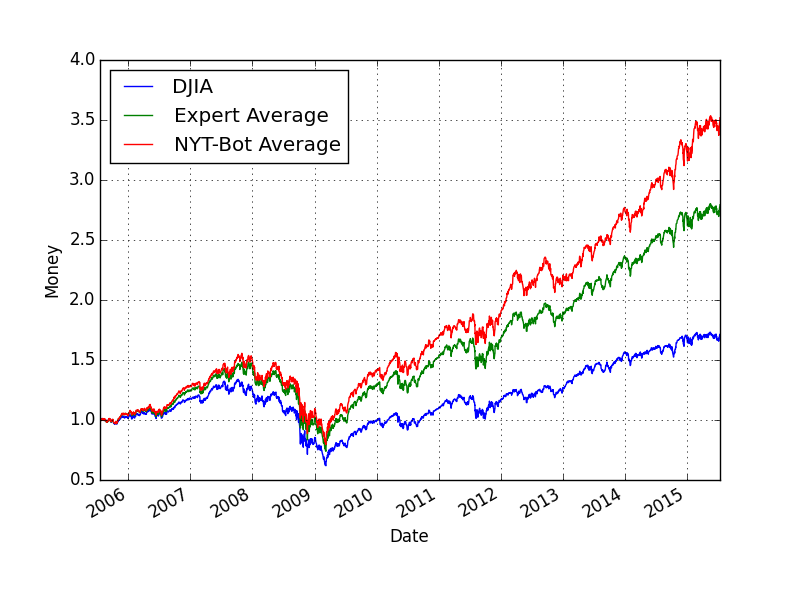
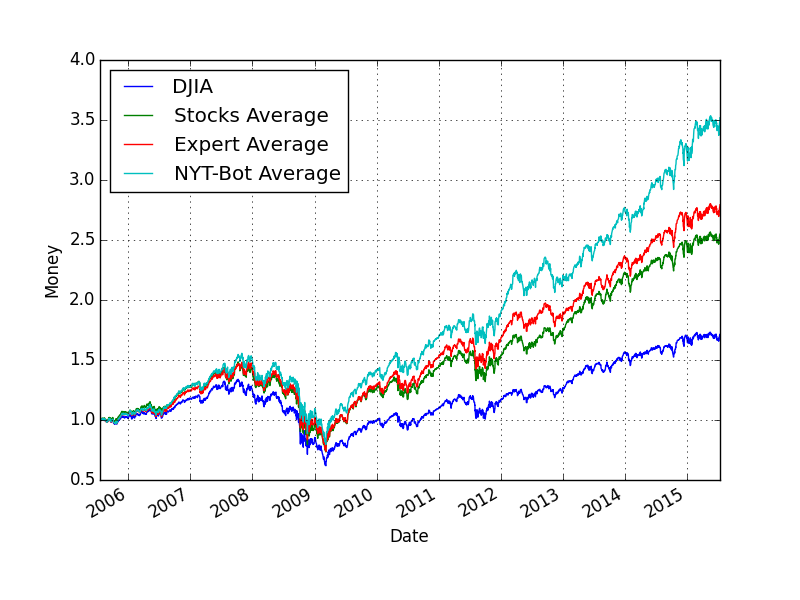
added stocks average to averages figure

diff --git a/NLPBot/NLPBot.py b/NLPBot/NLPBot.py
@@ -230,12 +230,15 @@ def summarizeModel(condensedData):
     keys = list(condensedData.keys())
     stock = keys[0]
     summaryToPlot = condensedData[stock].drop(['Expert', 'NYT-Bot', stock],axis=1)
+    summaryStocks = condensedData[stock].drop(['DJIA', 'Expert', 'NYT-Bot'],axis=1)
     summaryExpert = condensedData[stock].drop(['DJIA', 'NYT-Bot', stock],axis=1)
     summaryNLPBot = condensedData[stock].drop(['DJIA', 'Expert', stock],axis=1)
     for whichStock in xrange(1,len(keys)):
         stock = keys[whichStock]
+        summaryStocks = pd.merge(summaryStocks, condensedData[stock].drop(['DJIA', 'Expert', 'NYT-Bot'],axis=1), how='inner', on='Date')
         summaryExpert = pd.merge(summaryExpert, condensedData[stock].drop(['DJIA', 'NYT-Bot', stock],axis=1), how='inner', on='Date')
         summaryNLPBot = pd.merge(summaryNLPBot, condensedData[stock].drop(['DJIA', 'Expert', stock],axis=1), how='inner', on='Date')
+    summaryToPlot['Stocks Average'] = summaryStocks.drop('Date',axis=1).mean(axis=1)
     summaryToPlot['Expert Average'] = summaryExpert.drop('Date',axis=1).mean(axis=1)
     summaryToPlot['NYT-Bot Average'] = summaryNLPBot.drop('Date',axis=1).mean(axis=1)
 
